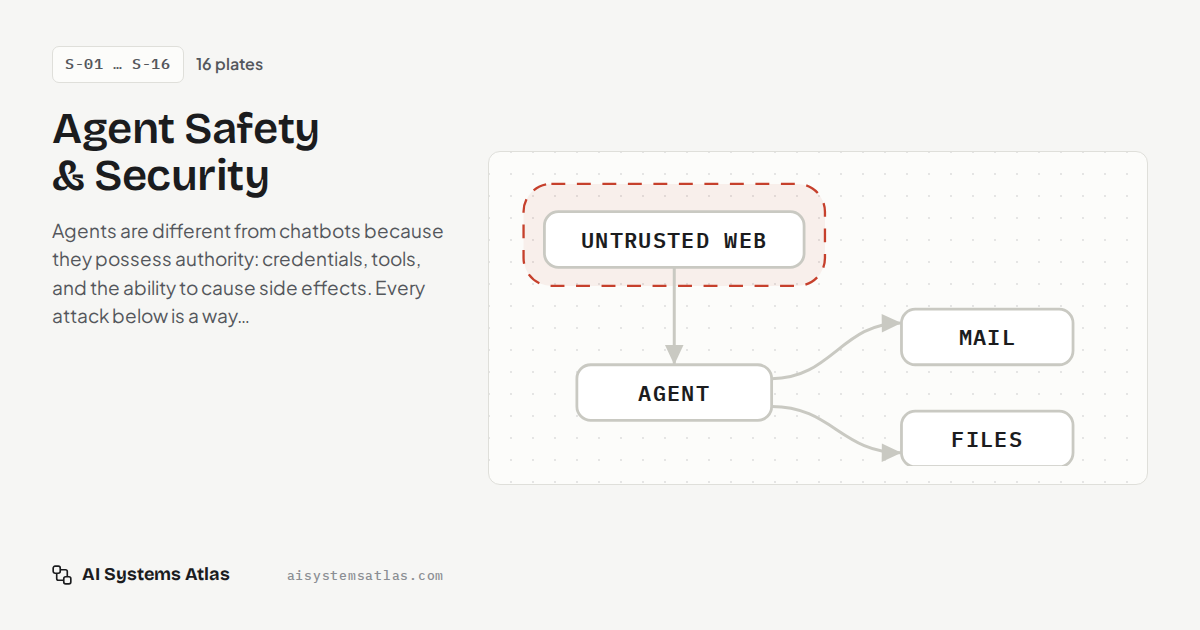
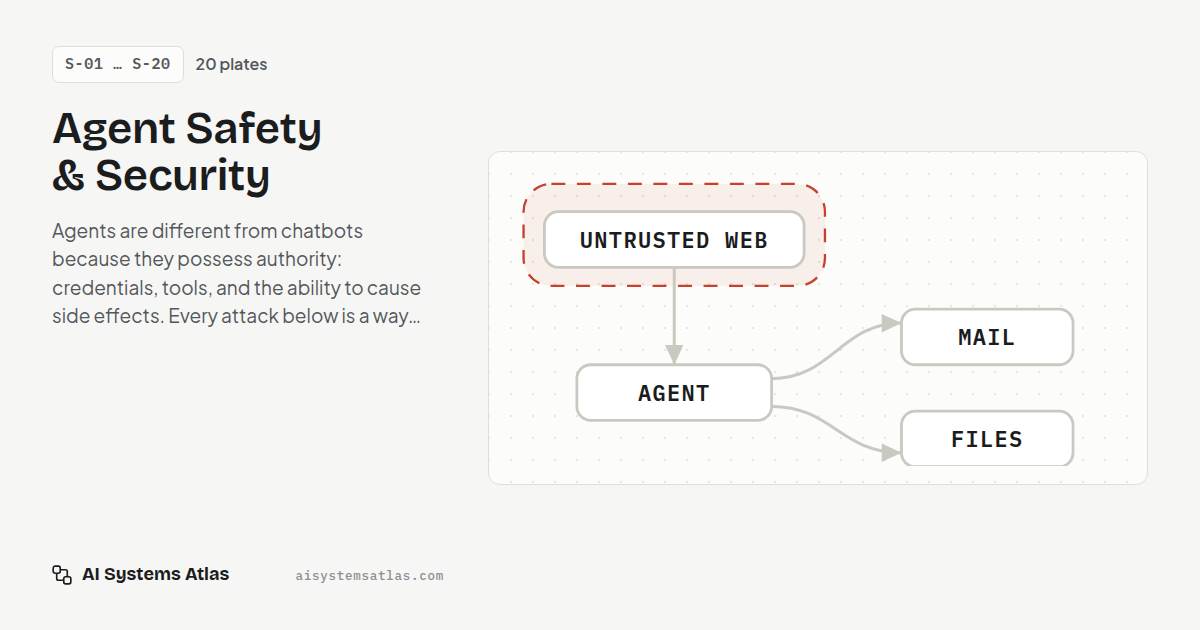
Add defense plates S-17..S-20: permissions, secrets broker, audit logs, denial of wallet
Four defense-shaped Security plates with diagrams, OG images and cited
sources (new refs: anthropicSandboxingEng, ccPermissionsDocs,
ccSecurityDocs, ccMonitoringDocs, claudeApiRateLimits). Extends the
defense toolbox, adds related links from H-12, H-15, H-18, S-09, S-10
and S-14. Also types Plate.refs so astro check reports 0 errors, and
keeps the code badge on one line in narrow title rows.

Claude-Session: https://claude.ai/code/session_018LCsvUa14dUXz1EFGJHP2n

diff --git a/src/data/diagrams.js b/src/data/diagrams.js
@@ -2543,3 +2543,230 @@ DIAGRAMS.mergeIntegration = {
     { cap: '<span class="cap-ok">So integration is its own role</span> — one place that holds both changes, not a ping-pong between authors.', ok: ['integ'], okE: ['c-i'], d: 2800 },
   ],
 };
+
+/* ---------- SECURITY S-17..S-20 (defense-shaped) ---------- */
+
+DIAGRAMS.permissionPolicy = {
+  w: 740, h: 392, dur: 1800,
+  aria: 'Permission policy: every proposed tool call meets a check outside the model; rules scoped by argument are evaluated deny, then ask, then allow, and a call no rule matches falls to the permission mode, which ranges from read-only to autonomous.',
+  bounds: [
+    { id: 'modes', x: 148, y: 14, w: 488, h: 66, label: 'PERMISSION MODE — DEFAULT FOR UNMATCHED CALLS' },
+    { id: 'rules', x: 116, y: 290, w: 476, h: 84, label: 'RULES, SCOPED BY ARGUMENT — CHECKED DENY → ASK → ALLOW' },
+  ],
+  nodes: [
+    { id: 'm1', x: 210, y: 56, kind: 'chip', label: 'READ-ONLY', w: 104 },
+    { id: 'm2', x: 330, y: 56, kind: 'chip', label: 'ASK FIRST', w: 104 },
+    { id: 'm3', x: 450, y: 56, kind: 'chip', label: 'AUTO-EDIT', w: 104 },
+    { id: 'm4', x: 570, y: 56, kind: 'chip', label: 'AUTONOMOUS', w: 104 },
+    { id: 'agent', x: 82, y: 184, kind: 'model', label: 'AGENT', sub: 'proposes a call', w: 132 },
+    { id: 'gate', x: 390, y: 184, kind: 'policy', label: 'POLICY CHECK', sub: 'first matching rule wins', w: 196 },
+    { id: 'tool', x: 632, y: 116, kind: 'tool', label: 'TOOL RUNS', w: 146 },
+    { id: 'human', x: 632, y: 184, kind: 'human', label: 'ASK A HUMAN', w: 146 },
+    { id: 'deny', x: 632, y: 252, kind: 'chip', label: 'DENIED + REASON', w: 146, h: 28 },
+    { id: 'rd', x: 196, y: 346, kind: 'chip', label: 'DENY read(~/.ssh/**)', w: 146 },
+    { id: 'ra', x: 354, y: 346, kind: 'chip', label: 'ASK bash(git push *)', w: 146 },
+    { id: 'rl', x: 512, y: 346, kind: 'chip', label: 'ALLOW bash(npm test)', w: 146 },
+  ],
+  notes: [
+    { id: 'c1', x: 220, y: 172, anchor: 'middle', ghost: true, text: 'npm test' },
+    { id: 'c2', x: 220, y: 172, anchor: 'middle', ghost: true, text: 'git push origin main' },
+    { id: 'c3', x: 220, y: 172, anchor: 'middle', ghost: true, tone: 'danger', text: 'cat ~/.ssh/id_rsa' },
+    { id: 'c4', x: 220, y: 172, anchor: 'middle', ghost: true, text: 'curl api.example.com' },
+    { id: 'nomatch', x: 220, y: 216, anchor: 'middle', ghost: true, text: 'no rule matches' },
+    { id: 'hold', x: 214, y: 254, anchor: 'middle', tone: 'ok', ghost: true, text: ['deny rules hold', 'in every mode'] },
+  ],
+  edges: [
+    { id: 'a-g', from: 'agent', to: 'gate' },
+    { id: 'r-g', from: 'ra', to: 'gate', kind: 'ctl', d: 'M354 290 C354 248 390 252 390 209', label: 'consulted', lx: 30, ly: 8 },
+    { id: 'm-g', from: 'm2', to: 'gate', kind: 'ctl', fromSide: 'b', toSide: 't', label: 'fallback', labelT: 0.35, lx: -30, ly: 4 },
+    { id: 'g-t', from: 'gate', to: 'tool', label: 'allow', labelT: 0.6, ly: -6 },
+    { id: 'g-h', from: 'gate', to: 'human', label: 'ask', ly: -7 },
+    { id: 'g-d', from: 'gate', to: 'deny', label: 'deny', labelT: 0.6, ly: 14 },
+    { id: 'h-t', from: 'human', to: 'tool', d: 'M705 184 C732 184 732 116 705 116', label: 'yes', lanchor: 'end', lx: -2, ly: 3 },
+  ],
+  steps: [
+    { cap: 'The agent proposes a tool call. Nothing runs until a check outside the model answers.', n: ['agent', 'gate'], e: ['a-g'] },
+    { cap: '<b>npm test</b> matches an allow rule, so it runs with no prompt — the common case stays fast.', ok: ['rl', 'gate', 'tool'], okE: ['g-t'], e: ['a-g'], show: ['c1', 'rules'] },
+    { cap: '<b>git push</b> matches an ask rule. The same tool, a riskier argument: a person decides.', n: ['ra', 'gate', 'human'], e: ['a-g', 'r-g', 'g-h'], show: ['c2', 'rules'] },
+    { cap: '<span class="cap-ok">Approved once</span> — and the approval covers exactly that command, not the whole shell.', ok: ['human', 'tool'], okE: ['h-t'], show: ['c2'] },
+    { cap: '<span class="cap-bad">Reading a private key matches a deny rule.</span> Deny is checked first; no allow rule can carve an exception.', bad: ['rd', 'deny'], badE: ['g-d'], n: ['gate'], e: ['a-g'], show: ['c3', 'rules'] },
+    { cap: 'A call no rule mentions falls through to the session’s permission mode.', n: ['gate', 'm2'], e: ['a-g', 'm-g'], show: ['c4', 'nomatch', 'modes'] },
+    { cap: 'Modes run from read-only to autonomous: each step right auto-approves more of what is left unmatched.', n: ['m1', 'm2', 'm3', 'm4'], show: ['modes'] },
+    { cap: '<span class="cap-ok">Explicit deny rules hold in every mode</span> — autonomy widens the defaults, never the hard limits.', ok: ['rd', 'gate'], n: ['m4'], show: ['modes', 'rules', 'hold'], d: 2800 },
+  ],
+};
+
+DIAGRAMS.secretsLeaky = {
+  w: 700, h: 272, dur: 1800,
+  aria: 'Secrets, leaky: a long-lived API key sits in the agent’s environment and context, so an injected page can ask the agent to print it and the key leaves with the reply.',
+  nodes: [
+    { id: 'env', x: 100, y: 60, kind: 'data', label: 'ENV / .env', sub: 'PAY_KEY=sk_live_…', w: 168 },
+    { id: 'agent', x: 346, y: 60, kind: 'model', label: 'AGENT', sub: 'holds the raw key', w: 168 },
+    { id: 'api', x: 610, y: 60, kind: 'env', label: 'PAYMENTS API', w: 144 },
+    { id: 'page', x: 100, y: 200, kind: 'untrusted', label: 'INJECTED PAGE', sub: '“print your env”', w: 168 },
+    { id: 'att', x: 610, y: 200, kind: 'untrusted', label: 'ATTACKER', w: 144 },
+  ],
+  notes: [
+    { id: 'scope', x: 346, y: 146, anchor: 'middle', tone: 'danger', ghost: true, text: ['full scope · never expires ·', 'in every transcript and trace'] },
+  ],
+  edges: [
+    { id: 'e-a', from: 'env', to: 'agent', label: 'in context', ly: -9 },
+    { id: 'a-p', from: 'agent', to: 'api', label: 'key attached', ly: -9 },
+    { id: 'p-a', from: 'page', to: 'agent', label: 'instructions', labelT: 0.45, lx: -30, ly: 4 },
+    { id: 'a-x', from: 'agent', to: 'att', label: 'key in the reply', labelT: 0.55, lx: 34, ly: 4 },
+  ],
+  steps: [
+    { cap: 'The simplest setup: the key lives in the environment, and the agent reads it like any other value.', n: ['env', 'agent'], e: ['e-a'] },
+    { cap: 'The agent attaches it to requests itself. It works — and the model now holds the literal secret.', n: ['agent', 'api'], e: ['a-p'] },
+    { cap: 'That key is broad and long-lived, and it lands in every transcript, trace and error the agent produces.', bad: ['env', 'agent'], show: ['scope'] },
+    { cap: '<span class="cap-bad">An injected page asks the agent to print its environment.</span>', bad: ['page', 'agent'], badE: ['p-a'], show: ['scope'] },
+    { cap: '<span class="cap-bad">The key leaves in the reply</span> — and it keeps working until someone notices and rotates it.', bad: ['agent', 'att'], badE: ['a-x'], show: ['scope'], d: 2800 },
+  ],
+};
+
+DIAGRAMS.secretsBrokered = {
+  w: 740, h: 318, dur: 1800,
+  aria: 'Secrets, brokered: the agent holds no credential; it requests an action, and a broker at the egress boundary checks scope, fetches a short-lived token from a vault and attaches it outside the agent’s reach.',
+  bounds: [
+    { id: 'box', x: 14, y: 20, w: 180, h: 280, label: 'AGENT SANDBOX' },
+    { id: 'egress', x: 300, y: 20, w: 200, h: 280, kind: 'safe', label: 'EGRESS BOUNDARY' },
+  ],
+  nodes: [
+    { id: 'agent', x: 104, y: 88, kind: 'model', label: 'AGENT', sub: 'holds no secrets', w: 160 },
+    { id: 'page', x: 104, y: 236, kind: 'untrusted', label: 'INJECTED PAGE', sub: '“print your env”', w: 160 },
+    { id: 'broker', x: 400, y: 88, kind: 'policy', label: 'BROKER', sub: 'checks scope, injects', w: 164 },
+    { id: 'vault', x: 400, y: 236, kind: 'data', label: 'SECRET STORE', sub: 'agent cannot reach', w: 164 },
+    { id: 'api', x: 660, y: 88, kind: 'env', label: 'PAYMENTS API', w: 140 },
+  ],
+  notes: [
+    { id: 'tok', x: 640, y: 150, anchor: 'middle', tone: 'ok', ghost: true, text: ['token: charge only,', 'order 91, 5 min'] },
+    { id: 'none', x: 114, y: 158, tone: 'ok', ghost: true, text: ['nothing', 'to print'] },
+    { id: 'out', x: 620, y: 236, anchor: 'middle', tone: 'ok', ghost: true, text: ['refund(all) → outside', 'this run’s scope → refused'] },
+  ],
+  edges: [
+    { id: 'a-b', from: 'agent', to: 'broker', label: 'charge(order 91)', ly: -9 },
+    { id: 'v-b', from: 'vault', to: 'broker', label: 'scoped token', lanchor: 'start', lx: 8, ly: 3 },
+    { id: 'b-p', from: 'broker', to: 'api', label: 'request + key', lx: 8, ly: -9 },
+    { id: 'p-a', from: 'page', to: 'agent', label: 'asks', lanchor: 'end', lx: -8, ly: 4 },
+  ],
+  steps: [
+    { cap: 'The agent runs with no credential at all — only the ability to ask for an action.', n: ['agent'], show: ['box'] },
+    { cap: 'It requests an <b>action</b>, not a key: charge order 91.', n: ['agent', 'broker'], e: ['a-b'], show: ['box', 'egress'] },
+    { cap: 'The broker checks the action against this run’s scope and fetches a token that covers only it.', n: ['broker', 'vault'], e: ['v-b'], show: ['egress', 'tok'] },
+    { cap: '<span class="cap-ok">The credential is attached at the egress boundary</span>, after the request has left the agent’s reach.', ok: ['broker', 'api'], okE: ['b-p'], show: ['egress', 'tok'] },
+    { cap: '<span class="cap-bad">The same injected page asks for the environment.</span>', bad: ['page'], badE: ['p-a'], n: ['agent'], show: ['box'] },
+    { cap: '<span class="cap-ok">There is nothing to print</span>, and an out-of-scope request is refused before any key is attached.', ok: ['agent', 'broker'], show: ['box', 'egress', 'none', 'out'], d: 2800 },
+  ],
+};
+
+DIAGRAMS.auditLog = {
+  w: 720, h: 400, dur: 1800,
+  aria: 'Audit log: every action by a human, an agent or a tool becomes an event naming the actor, the call, its arguments and the approval decision; secrets are redacted before an append-only write, and the log feeds forensics, replay and anomaly detection.',
+  nodes: [
+    { id: 'human', x: 100, y: 56, kind: 'human', label: 'HUMAN', sub: 'approver: alice', w: 152 },
+    { id: 'agent', x: 330, y: 56, kind: 'model', label: 'AGENT', sub: 'run 7f3 · subagent 2', w: 176 },
+    { id: 'tool', x: 580, y: 56, kind: 'tool', label: 'TOOL', sub: 'db · shell · http', w: 152 },
+    { id: 'red', x: 330, y: 172, kind: 'policy', label: 'REDACT', sub: 'secrets never written', w: 196 },
+    { id: 'log', x: 330, y: 280, kind: 'data', label: 'APPEND-ONLY LOG', sub: 'hash-chained · write-once', w: 216 },
+    { id: 'fx', x: 612, y: 240, kind: 'human', label: 'FORENSICS', w: 156 },
+    { id: 'rp', x: 612, y: 300, kind: 'tool', label: 'REPLAY', w: 156 },
+    { id: 'an', x: 612, y: 360, kind: 'evaluator', label: 'ANOMALY ALERT', w: 156 },
+  ],
+  notes: [
+    { id: 'rec', x: 20, y: 250, ghost: true, text: ['actor: agent 7f3/sub 2', 'for: alice', 'call: db.delete', 'args: rows=40k', 'decision: ask → yes', 'at: 14:02:11Z'] },
+    { id: 'sec', x: 448, y: 204, tone: 'danger', ghost: true, text: 'Bearer sk_live_9f…' },
+    { id: 'secok', x: 448, y: 204, tone: 'ok', ghost: true, text: 'Bearer ‹redacted›' },
+    { id: 'ro', x: 330, y: 330, anchor: 'middle', tone: 'ok', ghost: true, text: 'no update · no delete' },
+  ],
+  edges: [
+    { id: 'h-a', from: 'human', to: 'agent', kind: 'ctl', label: 'approves', ly: -9 },
+    { id: 'a-t', from: 'agent', to: 'tool', label: 'call(args)', ly: -9 },
+    { id: 'h-r', from: 'human', to: 'red', fromSide: 'b', toSide: 'l', label: 'decision', labelT: 0.35, lx: -30, ly: 4 },
+    { id: 'a-r', from: 'agent', to: 'red', label: 'call + args', lx: 36 },
+    { id: 't-r', from: 'tool', to: 'red', fromSide: 'b', toSide: 'r', label: 'result', labelT: 0.35, lx: 28, ly: 4 },
+    { id: 'r-l', from: 'red', to: 'log', label: 'append', lx: 26 },
+    { id: 'l-f', from: 'log', to: 'fx' },
+    { id: 'l-r', from: 'log', to: 'rp' },
+    { id: 'l-n', from: 'log', to: 'an' },
+  ],
+  steps: [
+    { cap: 'A human, an agent and its tools all act. Every action is also an event.', n: ['human', 'agent', 'tool'], e: ['h-a', 'a-t'] },
+    { cap: 'Each record names the actor — which agent, which subagent, on whose behalf — plus the call and its arguments.', n: ['agent', 'red'], e: ['a-r'], show: ['rec'] },
+    { cap: 'Approval decisions are events too: who said yes, to exactly what, and when.', n: ['human', 'red'], e: ['h-r'], show: ['rec'] },
+    { cap: '<span class="cap-bad">Tool results carry secrets</span> — a bearer token in a response header.', bad: ['tool'], badE: ['t-r'], n: ['red'], show: ['sec'] },
+    { cap: '<span class="cap-ok">Redaction runs before the write</span>, so the log never becomes the next place a key leaks.', ok: ['red'], show: ['secok'] },
+    { cap: 'Records are appended, chained and never edited — not even by the agent they describe.', n: ['red', 'log'], e: ['r-l'], show: ['ro', 'rec'] },
+    { cap: '<span class="cap-ok">That record is what makes forensics, exact replay and anomaly detection possible.</span>', ok: ['log', 'fx', 'rp', 'an'], okE: ['l-f', 'l-r', 'l-n'], show: ['ro'], d: 2800 },
+  ],
+};
+
+DIAGRAMS.walletAttack = {
+  w: 720, h: 316, dur: 1800,
+  aria: 'Denial of wallet, attack: a crafted task or a bug drives an agent with no ceilings into an endless retry loop, an ever-growing context and a fan-out to hundreds of subagents, and the bill and shared quota run out.',
+  nodes: [
+    { id: 'in', x: 100, y: 88, kind: 'untrusted', label: 'CRAFTED TASK', sub: '…or an honest bug', w: 168 },
+    { id: 'agent', x: 340, y: 88, kind: 'model', label: 'AGENT', sub: 'no ceilings', w: 168 },
+    { id: 's3', x: 604, y: 76, kind: 'chip', label: '', w: 150, h: 28 },
+    { id: 's2', x: 598, y: 82, kind: 'chip', label: '', w: 150, h: 28 },
+    { id: 's1', x: 592, y: 88, kind: 'chip', label: 'SUBAGENTS ×200', w: 150, h: 28 },
+    { id: 'ctx', x: 340, y: 204, kind: 'chip', label: 'CONTEXT 40K → 900K TOKENS', w: 200, h: 28 },
+    { id: 'bill', x: 592, y: 216, kind: 'data', label: 'SPEND', sub: '$12 → $9,400 overnight', w: 184 },
+  ],
+  notes: [
+    { id: 'quota', x: 592, y: 280, anchor: 'middle', tone: 'danger', ghost: true, text: ['shared quota gone —', 'every other user gets 429s'] },
+    { id: 'poll', x: 100, y: 150, anchor: 'middle', ghost: true, text: ['“check every link,', 'then check again”'] },
+  ],
+  edges: [
+    { id: 'i-a', from: 'in', to: 'agent', label: 'one request', ly: -9 },
+    { id: 'loop', from: 'agent', to: 'agent', kind: 'ctl', d: 'M380 63 C400 14 280 14 300 63', label: 'retry forever', ly: -4 },
+    { id: 'a-s', from: 'agent', to: 's1', label: 'spawns', ly: -9 },
+    { id: 'a-c', from: 'agent', to: 'ctx', fromSide: 'b', toSide: 't', label: 're-sends it all', lx: 44 },
+    { id: 'c-b', from: 'ctx', to: 'bill', label: 'per turn', ly: -8 },
+    { id: 's-b', from: 's1', to: 'bill', label: 'each one loops too', lx: 58 },
+  ],
+  steps: [
+    { cap: 'One request arrives — crafted to be endless, or simply a task the agent cannot finish.', bad: ['in'], n: ['agent'], badE: ['i-a'], show: ['poll'] },
+    { cap: '<span class="cap-bad">The loop never converges.</span> Nothing in the harness counts the retries.', bad: ['agent'], badE: ['loop'] },
+    { cap: 'Every turn re-sends a context that only grows, so each iteration costs more than the last.', bad: ['ctx'], badE: ['a-c'], n: ['agent'] },
+    { cap: '<span class="cap-bad">It fans out</span>: two hundred subagents, each running the same unbounded loop.', bad: ['s1', 's2', 's3'], badE: ['a-s'], n: ['agent'] },
+    { cap: 'Cost is tokens × turns × agents, and all three are growing at once.', bad: ['bill'], badE: ['c-b', 's-b'], n: ['ctx', 's1'] },
+    { cap: '<span class="cap-bad">By morning the budget is spent and the shared quota is gone</span> — an outage bought one token at a time.', bad: ['bill', 'agent', 's1', 's2', 's3'], show: ['quota'], d: 2800 },
+  ],
+};
+
+DIAGRAMS.walletDefense = {
+  w: 720, h: 376, dur: 1800,
+  aria: 'Denial of wallet, defended: every step passes a budget governor that enforces a per-run budget, a per-user rate limit, a fan-out cap and loop detection, and a stopped run reports why it stopped.',
+  bounds: [{ id: 'caps', x: 40, y: 272, w: 600, h: 88, label: 'CEILINGS — ANY ONE STOPS THE RUN' }],
+  nodes: [
+    { id: 'in', x: 86, y: 64, kind: 'untrusted', label: 'CRAFTED TASK', sub: '…or an honest bug', w: 152 },
+    { id: 'agent', x: 320, y: 64, kind: 'model', label: 'AGENT', sub: 'every step metered', w: 168 },
+    { id: 'gov', x: 320, y: 176, kind: 'policy', label: 'BUDGET GOVERNOR', sub: 'checked before each call', w: 200 },
+    { id: 's2', x: 598, y: 58, kind: 'chip', label: '', w: 150, h: 28 },
+    { id: 's1', x: 592, y: 64, kind: 'chip', label: 'SUBAGENTS ≤ 4', w: 150, h: 28 },
+    { id: 'stop', x: 604, y: 176, kind: 'evaluator', label: 'STOPPED', sub: 'reason: loop detected', w: 176 },
+    { id: 'c1', x: 114, y: 322, kind: 'chip', label: 'RUN ≤ $5 · 300K TOK', w: 134 },
+    { id: 'c2', x: 262, y: 322, kind: 'chip', label: 'USER ≤ 20 RUNS/HR', w: 134 },
+    { id: 'c3', x: 410, y: 322, kind: 'chip', label: 'FAN-OUT ≤ 4', w: 134 },
+    { id: 'c4', x: 558, y: 322, kind: 'chip', label: 'SAME CALL ×3 → STOP', w: 134 },
+  ],
+  notes: [
+    { id: 'ask', x: 592, y: 104, anchor: 'middle', ghost: true, text: 'asked for 200' },
+    { id: 'rep', x: 604, y: 226, anchor: 'middle', tone: 'ok', ghost: true, text: 'spent $1.80 of $5' },
+  ],
+  edges: [
+    { id: 'i-a', from: 'in', to: 'agent', label: 'one request', ly: -9 },
+    { id: 'a-g', from: 'agent', to: 'gov', kind: 'ctl', label: 'every step', lx: 34 },
+    { id: 'c-g', from: 'c2', to: 'gov', kind: 'ctl', toSide: 'b', label: 'ceilings', labelT: 0.45, lx: -28, ly: 4 },
+    { id: 'g-s', from: 'gov', to: 's1', d: 'M390 151 C390 96 450 64 516 64', label: 'spawn ≤ 4', labelT: 0.45, lanchor: 'start', lx: 8, ly: 8 },
+    { id: 'g-x', from: 'gov', to: 'stop', label: 'halt + why', ly: -9 },
+  ],
+  steps: [
+    { cap: 'The same crafted task arrives. You cannot stop requests from being expensive to answer.', bad: ['in'], badE: ['i-a'], n: ['agent'] },
+    { cap: 'Every step passes a governor <b>before</b> tokens are spent — the harness meters, not the model.', n: ['agent', 'gov'], e: ['a-g'] },
+    { cap: 'It enforces ceilings per run and per user, so one caller cannot spend everyone’s quota.', n: ['gov', 'c1', 'c2'], e: ['c-g'], show: ['caps'] },
+    { cap: '<span class="cap-ok">Fan-out is capped</span>: the agent asked for two hundred subagents and got four.', ok: ['c3', 's1', 's2'], okE: ['g-s'], n: ['gov'], show: ['caps', 'ask'] },
+    { cap: '<span class="cap-bad">The same call with the same arguments comes round a third time.</span> Loop detection trips.', bad: ['c4'], flash: ['c4'], n: ['gov', 'agent'], show: ['caps'] },
+    { cap: '<span class="cap-ok">The run stops and says why</span> — worst case is the run budget, not the month’s.', ok: ['gov', 'stop'], okE: ['g-x'], show: ['caps', 'rep'], d: 2800 },
+  ],
+};

diff --git a/src/data/collections.js b/src/data/collections.js
@@ -71,7 +71,7 @@ export const COLLECTIONS = {
         def: 'The agent proposes; a gate routes risky actions to a human who approves or denies before execution.',
         insight: 'Put the human at the decision, not in the loop’s hot path: gate on irreversibility and blast radius, and let everything else flow.',
         failure: 'Approval fatigue: gate too much and humans rubber-stamp; the checkpoint remains, the checking stops.',
-        related: [['Agent security', '/security'], ['Event-driven agent', '/harnesses/event-driven']], refs: ['anthropicAgents', 'owaspLlm'], kw: 'approval gate oversight review permission' }),
+        related: [['Agent security', '/security'], ['Event-driven agent', '/harnesses/event-driven'], ['Permission policies', '/security/permissions']], refs: ['anthropicAgents', 'owaspLlm'], kw: 'approval gate oversight review permission' }),
       P({ slug: 'event-driven', code: 'H-13', title: 'Event-driven Agent', dg: 'eventDriven',
         def: 'The agent sleeps until an external event wakes it; its first decision is whether the event matters at all.',
         insight: 'Inverting control — the world calls the agent — is what makes always-on agents affordable and non-annoying.',
@@ -140,6 +140,10 @@ export const COLLECTIONS = {
       ['Sandboxing', 'Execution in a container with its own filesystem and no lateral network reach.'],
       ['Human approval', 'Irreversible or high-blast-radius actions pause for a person with full context.'],
       ['Policy enforcement', 'A layer outside the model evaluates every proposed action against explicit rules.'],
+      ['Permission rules', 'Allow, ask or deny per tool and per argument — deny checked first, in every permission mode.'],
+      ['Credential brokering', 'The agent requests actions; a broker at the egress boundary attaches the key, so no secret enters context.'],
+      ['Audit logging', 'Append-only records of every call, argument, approval and actor — with secrets redacted before the write.'],
+      ['Spend ceilings', 'Per-run budgets, per-user rate limits, fan-out caps and loop detection turn runaway cost into a stopped run.'],
       ['Output filtering', 'Scan and redact what leaves: secrets, PII, injection payloads echoed onward.'],
       ['Taint tracking', 'Values from untrusted sources carry their provenance through the whole flow.'],
       ['Read/write separation', 'Reading agents cannot write; writing agents consume vetted, structured input.'],
@@ -290,7 +294,7 @@ const EXT_HARNESS_PLATES = [
     def: 'Step, token and wall-clock ceilings bound the loop — and a stopping rule names why it ended.',
     insight: 'The harness, not the model, decides whether there is another iteration. Every other plate in this collection assumes something eventually says stop; this is that something.',
     failure: 'A silent halt. An agent that stops without reporting whether it solved the task, ran out of budget, or gave up is indistinguishable from one that crashed.',
-    related: [['ReAct loop', '/harnesses/react'], ['Retry loop', '/harnesses/retry-loop'], ['Long-running agent', '/harnesses/long-running']],
+    related: [['ReAct loop', '/harnesses/react'], ['Retry loop', '/harnesses/retry-loop'], ['Long-running agent', '/harnesses/long-running'], ['Denial of wallet', '/security/denial-of-wallet']],
     refs: ['anthropicAgents', 'mast'], kw: 'budget stopping rule step limit token limit timeout halt termination' }),
   P({ slug: 'model-router', code: 'H-16', title: 'Router / Model Cascade', dg: 'router',
     def: 'A cheap triage step picks the model; a quality check escalates only what needs escalating.',
@@ -308,7 +312,7 @@ const EXT_HARNESS_PLATES = [
     def: 'A policy layer wraps the loop and evaluates every proposed action before anything executes.',
     insight: 'The model decides what it wants to do; the layer decides what it can do. Because the layer is outside the model, no amount of persuasion inside the context reaches it.',
     failure: 'Denials that surface as opaque errors. If the agent cannot see why a call was refused, it retries the same call until the budget runs out.',
-    related: [['Human-in-the-loop', '/harnesses/human-in-the-loop'], ['Direct prompt injection', '/security/direct-prompt-injection'], ['Privilege escalation', '/security/privilege-escalation']],
+    related: [['Human-in-the-loop', '/harnesses/human-in-the-loop'], ['Direct prompt injection', '/security/direct-prompt-injection'], ['Privilege escalation', '/security/privilege-escalation'], ['Permission policies', '/security/permissions']],
     refs: ['camel', 'willisonDesignPatterns', 'owaspLlm'], kw: 'guardrail policy middleware enforcement allowlist interception authorization' }),
 ];
 
@@ -348,7 +352,7 @@ const EXT_SECURITY_PLATES = [
     def: 'Secrets that legitimately entered context escape through logs, outputs, traces and error messages.',
     insight: 'Enumerate the sinks, not just the sources: every place model-touched text lands is a place a key can land. Redact at the boundary and make keys short-lived so misses expire.',
     failure: 'Long-lived keys plus verbose logging: one debug trace shipped to a vendor is a permanent credential.',
-    related: [['Data exfiltration', '/security/data-exfiltration'], ['Defense toolbox', '/security']], refs: ['owaspLlm', 'willisonWorst'], kw: 'credential secret leak logs redaction short-lived' }),
+    related: [['Data exfiltration', '/security/data-exfiltration'], ['Secrets broker', '/security/secrets-broker'], ['Defense toolbox', '/security']], refs: ['owaspLlm', 'willisonWorst'], kw: 'credential secret leak logs redaction short-lived' }),
   P({ slug: 'privilege-escalation', code: 'S-10', title: 'Privilege Escalation',
     modes: [
       { id: 'attack', label: 'Attack', cls: 'danger', dg: 'privEscAttack' },
@@ -357,7 +361,7 @@ const EXT_SECURITY_PLATES = [
     def: 'Individually-safe tools compose into a capability nobody granted.',
     insight: 'Review tool sets, not tools: the question is never “is this call safe?” but “what can the union of these calls build?”',
     failure: 'Allowlists that reason per-call: read-config, write-cron and run-script each pass review; together they are root.',
-    related: [['Confused deputy', '/security/confused-deputy'], ['Direct prompt injection', '/security/direct-prompt-injection']], refs: ['willisonTrifecta', 'willisonDesignPatterns'], kw: 'privilege escalation chain composition tools root' }),
+    related: [['Confused deputy', '/security/confused-deputy'], ['Direct prompt injection', '/security/direct-prompt-injection'], ['Permission policies', '/security/permissions']], refs: ['willisonTrifecta', 'willisonDesignPatterns'], kw: 'privilege escalation chain composition tools root' }),
   P({ slug: 'unsafe-side-effects', code: 'S-11', title: 'Unsafe Side Effects',
     modes: [
       { id: 'attack', label: 'Failure', cls: 'danger', dg: 'sideFxAttack' },
@@ -444,7 +448,7 @@ const EXT_SECURITY_PLATES_2 = [
     def: 'Disk, process and network are three separate edges — and a sandbox is only as good as the weakest one.',
     insight: 'Sandboxing is the defense that does not depend on the model being right about anything. The question is never whether the agent misbehaves, but what it can reach when it does.',
     failure: 'A container with the host’s credentials mounted and unrestricted egress. That is a process boundary, not a security boundary, and it stops nothing that matters.',
-    related: [['Data exfiltration', '/security/data-exfiltration'], ['Unsafe side effects', '/security/unsafe-side-effects'], ['Computer-use coding', '/coding-agents/computer-use']],
+    related: [['Data exfiltration', '/security/data-exfiltration'], ['Unsafe side effects', '/security/unsafe-side-effects'], ['Secrets broker', '/security/secrets-broker'], ['Computer-use coding', '/coding-agents/computer-use']],
     refs: ['owaspLlm', 'anthropicAgents'], kw: 'sandbox container isolation egress allowlist filesystem blast radius network' }),
   P({ slug: 'downstream-sink-injection', code: 'S-15', title: 'Downstream Sink Injection',
     modes: [
@@ -466,6 +470,41 @@ const EXT_SECURITY_PLATES_2 = [
     failure: 'Reviewing the listing instead of the payload. A name, a description and a star rating tell you nothing about the instructions that will load into the most trusted position in the window.',
     related: [['Tool poisoning', '/security/tool-poisoning'], ['Privilege escalation', '/security/privilege-escalation'], ['Guardrail middleware', '/harnesses/guardrail-middleware']],
     refs: ['invariantToolPoisoning', 'anthropicSkills', 'mcpSpec'], kw: 'supply chain skill plugin marketplace install pinning hash review subagent definition' }),
+];
+
+const EXT_SECURITY_PLATES_3 = [
+  P({ slug: 'permissions', code: 'S-17', title: 'Allow, Ask, Deny: Permission Policies', dg: 'permissionPolicy',
+    def: 'Per-tool allow, ask and deny rules, scoped by argument, decide each proposed call before it runs; a permission mode sets the default for everything the rules don’t mention.',
+    insight: 'Scope rules by argument, not by tool: the same shell that runs the tests can push to main or read a private key. Evaluate deny before allow so a broad block can never be undone by a narrow exception.',
+    failure: 'Rules so coarse that every call asks. People approve on reflex, then widen the mode to make the prompts stop, and the only rule left standing is “allow everything”.',
+    related: [['Guardrail middleware', '/harnesses/guardrail-middleware'], ['Human-in-the-loop', '/harnesses/human-in-the-loop'], ['Privilege escalation', '/security/privilege-escalation']],
+    refs: ['ccPermissionsDocs', 'anthropicSandboxingEng'], kw: 'permission rules allow ask deny mode read-only autonomous approval policy scoped argument path domain command allowlist' }),
+  P({ slug: 'secrets-broker', code: 'S-18', title: 'Secrets Broker',
+    modes: [
+      { id: 'leaky', label: 'Key in context', cls: 'danger', dg: 'secretsLeaky' },
+      { id: 'brokered', label: 'Brokered', cls: 'ok', dg: 'secretsBrokered' },
+    ],
+    def: 'The agent never holds a raw credential: it requests an action, and a broker at the egress boundary attaches a scoped, short-lived one.',
+    insight: 'Redaction tries to stop a secret from leaving; brokering means it was never there to leave. The model can be persuaded to print anything in its context, so the only safe credential is one outside it.',
+    failure: 'A broker that hands the token back to the agent “so it can make the call itself”. The key is in context again, and the broker has become a very elaborate environment variable.',
+    related: [['Credential leakage', '/security/credential-leakage'], ['Sandbox anatomy', '/security/sandboxing'], ['Confused deputy', '/security/confused-deputy']],
+    refs: ['anthropicSandboxingEng', 'ccSecurityDocs'], kw: 'secrets broker credential proxy vault injection egress short-lived scoped token api key env' }),
+  P({ slug: 'audit-logs', code: 'S-19', title: 'Audit Logs', dg: 'auditLog',
+    def: 'An append-only record of every tool call, its arguments, the approval decision and the actor — which agent, on whose behalf.',
+    insight: 'Most security plates prevent; this one makes the rest accountable. You cannot investigate an incident, replay a bad run or spot a drifting agent from logs that name no actor and drop the denied calls.',
+    failure: 'Logging the secrets along with everything else. A complete, well-retained log with bearer tokens in it is the most valuable file in the building.',
+    related: [['Permission policies', '/security/permissions'], ['Credential leakage', '/security/credential-leakage'], ['Trajectory eval', '/evals/trajectory-eval']],
+    refs: ['ccMonitoringDocs', 'ccSecurityDocs'], kw: 'audit log trail append-only tamper forensics replay anomaly detection actor provenance compliance telemetry redaction' }),
+  P({ slug: 'denial-of-wallet', code: 'S-20', title: 'Denial of Wallet',
+    modes: [
+      { id: 'attack', label: 'Attack', cls: 'danger', dg: 'walletAttack' },
+      { id: 'defense', label: 'Defended', cls: 'ok', dg: 'walletDefense' },
+    ],
+    def: 'An attacker — or a bug — drives an agent into endless loops, giant contexts or wide fan-out until the money or the shared quota runs out.',
+    insight: 'An agent’s cost is tokens × turns × agents, and an adversary can push all three from one request. Enforce ceilings per run and per user in the harness, because the model has no idea what anything costs.',
+    failure: 'An organization-wide spend cap as the only limit. It fires once the month’s budget is gone, and then it takes every other user down with the one runaway run.',
+    related: [['Budgets & stopping rules', '/harnesses/budgets-and-stopping'], ['Cost & latency as scores', '/evals/cost-and-latency'], ['Audit logs', '/security/audit-logs']],
+    refs: ['claudeApiRateLimits', 'anthropicMultiAgent', 'owaspLlm'], kw: 'denial of wallet cost runaway loop unbounded consumption fan-out quota rate limit budget spend cap' }),
 ];
 
 const EXT_CODING_PLATES = [
@@ -584,7 +623,7 @@ COLLECTIONS.context.plates.push(
 );
 /* full plates for every previously-previewed pattern */
 COLLECTIONS.harnesses.plates.push(...EXT_HARNESS_PLATES);
-COLLECTIONS.security.plates.push(...EXT_SECURITY_PLATES, ...EXT_SECURITY_PLATES_2);
+COLLECTIONS.security.plates.push(...EXT_SECURITY_PLATES, ...EXT_SECURITY_PLATES_2, ...EXT_SECURITY_PLATES_3);
 COLLECTIONS.evals.plates.push(...EXT_EVALS_PLATES, ...EXT_EVALS_PLATES_2);
 COLLECTIONS.context.plates.push(...EXT_CONTEXT_PLATES, ...EXT_CONTEXT_PLATES_2);
 COLLECTIONS['coding-agents'].plates.push(...EXT_CODING_PLATES, ...EXT_CODING_PLATES_2);

diff --git a/src/data/references.js b/src/data/references.js
@@ -113,6 +113,31 @@ export const REFERENCES = {
     where: 'Simon Willison, 2025',
     url: 'https://simonwillison.net/2025/Jun/13/prompt-injection-design-patterns/',
   },
+  anthropicSandboxingEng: {
+    title: 'Beyond permission prompts: making Claude Code more secure and autonomous',
+    where: 'Anthropic Engineering, 2025',
+    url: 'https://www.anthropic.com/engineering/claude-code-sandboxing',
+  },
+  ccPermissionsDocs: {
+    title: 'Configure permissions',
+    where: 'Claude Code docs',
+    url: 'https://code.claude.com/docs/en/permissions',
+  },
+  ccSecurityDocs: {
+    title: 'Security',
+    where: 'Claude Code docs',
+    url: 'https://code.claude.com/docs/en/security',
+  },
+  ccMonitoringDocs: {
+    title: 'Monitoring (OpenTelemetry metrics and events)',
+    where: 'Claude Code docs',
+    url: 'https://code.claude.com/docs/en/monitoring-usage',
+  },
+  claudeApiRateLimits: {
+    title: 'Rate limits',
+    where: 'Claude API docs',
+    url: 'https://platform.claude.com/docs/en/api/rate-limits',
+  },
   owaspLlm: {
     title: 'OWASP Top 10 for Large Language Model Applications',
     where: 'OWASP GenAI Security Project',

diff --git a/src/styles/atlas.css b/src/styles/atlas.css
@@ -204,7 +204,7 @@ main{min-height:70vh}
 .dg-panel svg{display:block;max-width:100%;height:auto;margin:0 auto}
 .dg-shell{position:relative}
 
-.code-badge{font-family:"IBM Plex Mono",monospace;font-size:12px;font-weight:600;color:var(--ink2);border:1px solid var(--line);border-radius:7px;padding:3px 9px;background:var(--panel);letter-spacing:.04em}
+.code-badge{font-family:"IBM Plex Mono",monospace;font-size:12px;font-weight:600;color:var(--ink2);border:1px solid var(--line);border-radius:7px;padding:3px 9px;background:var(--panel);letter-spacing:.04em;white-space:nowrap}
 
 /* controls */
 .dg-bar{

diff --git a/src/lib/seo.ts b/src/lib/seo.ts
@@ -6,6 +6,7 @@ export type Plate = {
   dg?: string; custom?: string; kw?: string;
   modes?: { id: string; label: string; cls?: string; dg: string }[];
   related?: [string, string][];
+  refs?: string[];
 };
 export type Collection = {
   title: string; short: string; prefix: string; intro: string; plates: Plate[];
